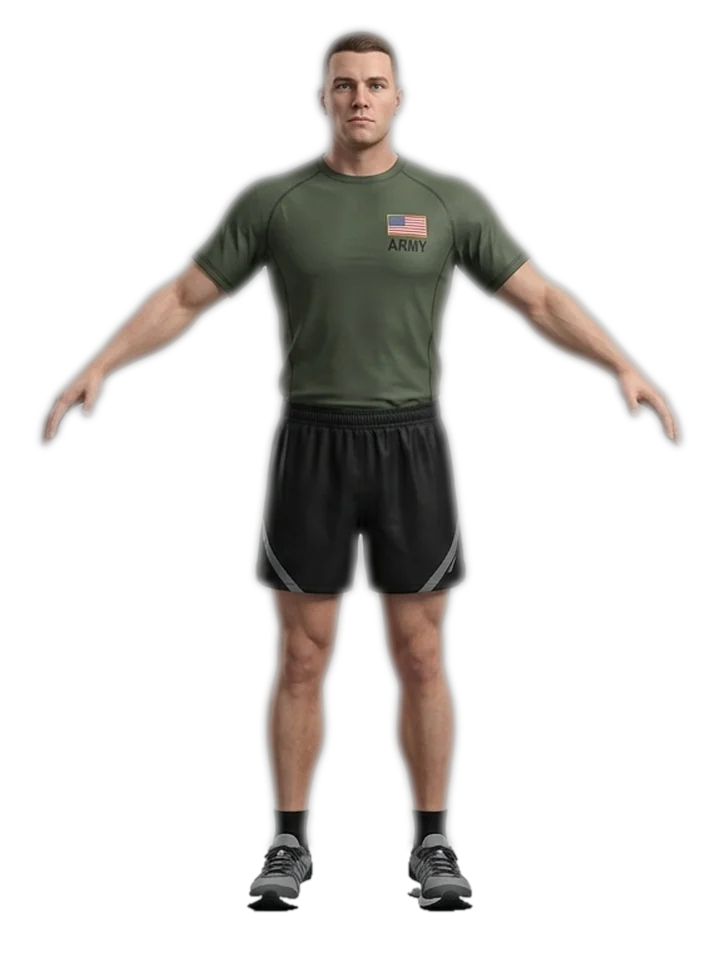
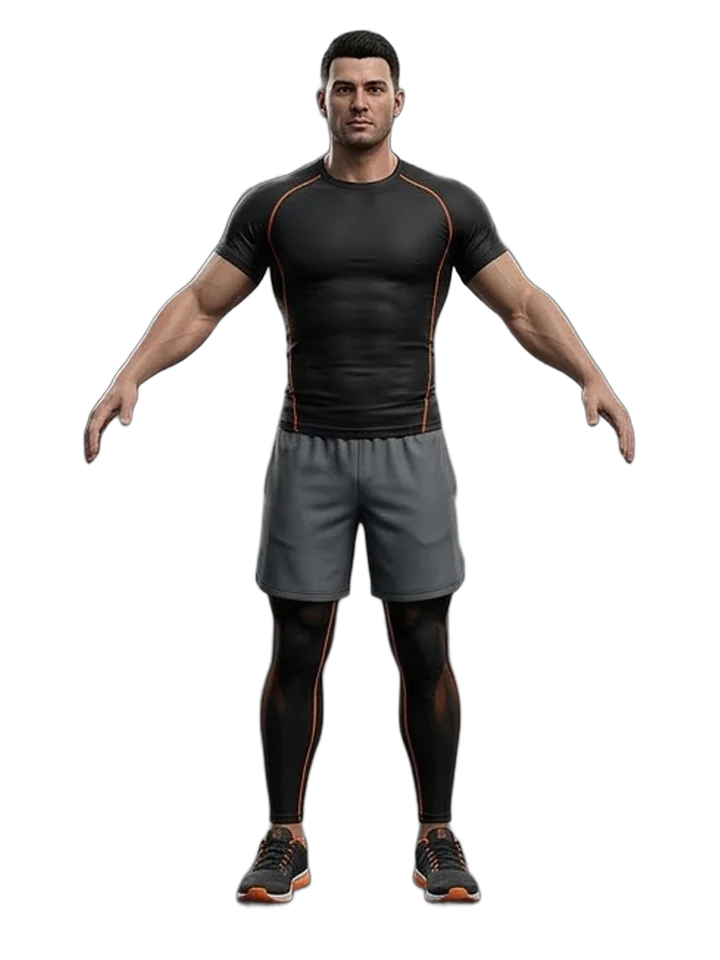
Body map: use the new athlete model (PT_MALE_01) for the male figure
Claude-Session: https://claude.ai/code/session_014uyXh6zoA21sWb6tNM4t6o

Changed region(s): [[0.0306, 0.0312, 0.9472, 0.9688]]

diff --git a/index.html b/index.html
@@ -1645,9 +1645,9 @@ function bodyUse(){
 /* ---------- The body map: front and back photos with tappable joints ---------- */
 /* Spot positions on the 720×960 photo frames. Paired values are viewer-left x, viewer-right x, y. */
 const BPTS={
- 'm-front':{neck:[360,150],shoulder:[232,488,240],elbow:[150,570,335],wrist:[80,640,398],hip:[290,430,470],knee:[300,420,660],ankle:[290,430,832]},
+ 'm-front':{neck:[360,162],shoulder:[247,473,228],elbow:[160,560,322],wrist:[110,610,400],hip:[300,422,470],knee:[300,422,632],ankle:[287,433,835]},
  'f-front':{neck:[360,150],shoulder:[240,480,247],elbow:[140,580,345],wrist:[75,645,412],hip:[290,430,470],knee:[300,420,660],ankle:[290,430,832]},
- 'm-back':{neck:[360,140],uback:[360,252],back:[360,378],shoulder:[232,488,240],elbow:[155,565,332],wrist:[90,630,402],hip:[295,425,472],knee:[300,420,662],ankle:[290,430,842]},
+ 'm-back':{neck:[360,148],uback:[360,250],back:[360,375],shoulder:[248,472,232],elbow:[152,566,330],wrist:[104,612,402],hip:[298,422,472],knee:[300,420,632],ankle:[292,428,835]},
  'f-back':{neck:[360,146],uback:[360,252],back:[360,370],shoulder:[240,480,250],elbow:[140,580,345],wrist:[75,640,416],hip:[295,425,470],knee:[300,420,662],ankle:[290,430,842]}};
 /* On the front view the Soldier's right side is on the viewer's left; on the back view it is on the viewer's right. */
 function bRegions(key){const back=key.endsWith('back'),o=[];

diff --git a/sw.js b/sw.js
@@ -1,5 +1,5 @@
-/* H2F Trainer offline cache, version b77beafdbd */
-const V='h2f-b77beafdbd',SHELL=["/", "/index.html", "/manifest.webmanifest", "/icons/icon-192.png", "/icons/apple-touch-icon.png", "/ph/body-m-front.webp", "/ph/body-m-back.webp", "/ph/body-f-front.webp", "/ph/body-f-back.webp"];
+/* H2F Trainer offline cache, version c3a1e7m01 */
+const V='h2f-c3a1e7m01',SHELL=["/", "/index.html", "/manifest.webmanifest", "/icons/icon-192.png", "/icons/apple-touch-icon.png", "/ph/body-m-front.webp", "/ph/body-m-back.webp", "/ph/body-f-front.webp", "/ph/body-f-back.webp"];
 self.addEventListener('install',e=>{e.waitUntil(caches.open(V).then(c=>c.addAll(SHELL)).then(()=>self.skipWaiting()))});
 self.addEventListener('activate',e=>{e.waitUntil(caches.keys().then(ks=>Promise.all(ks.filter(k=>k!==V).map(k=>caches.delete(k)))).then(()=>self.clients.claim()))});
 self.addEventListener('fetch',e=>{
